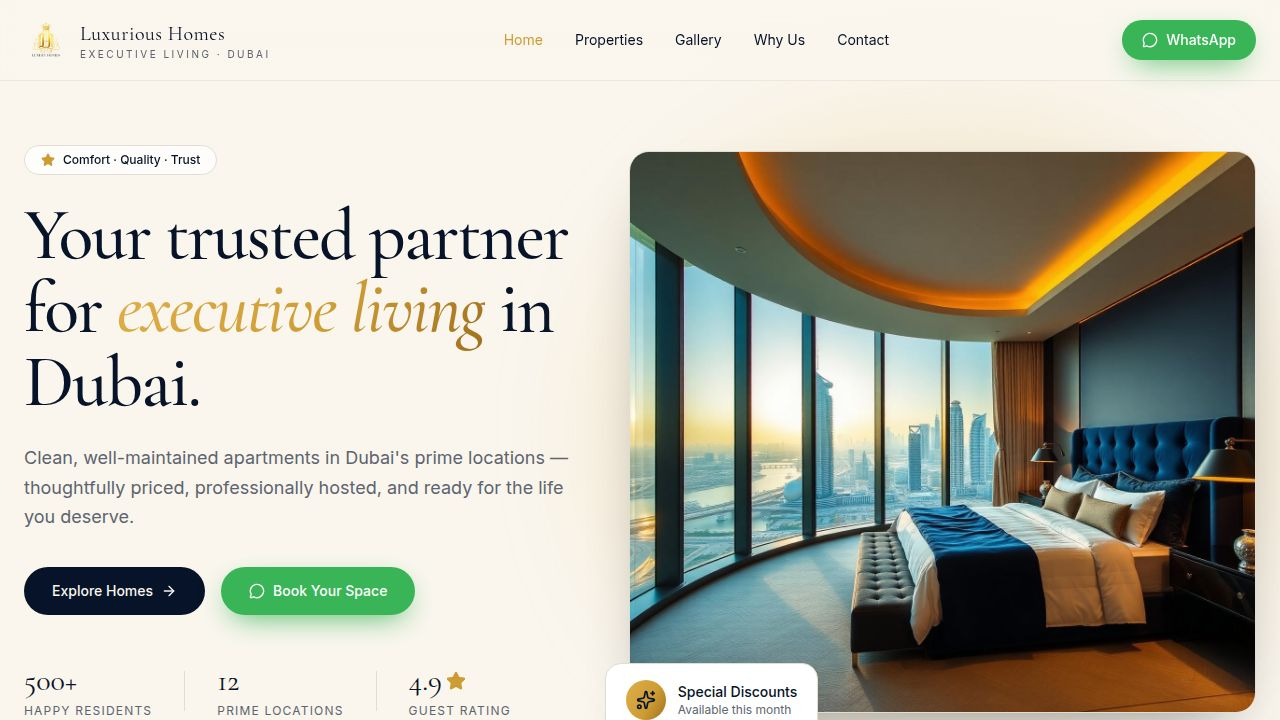
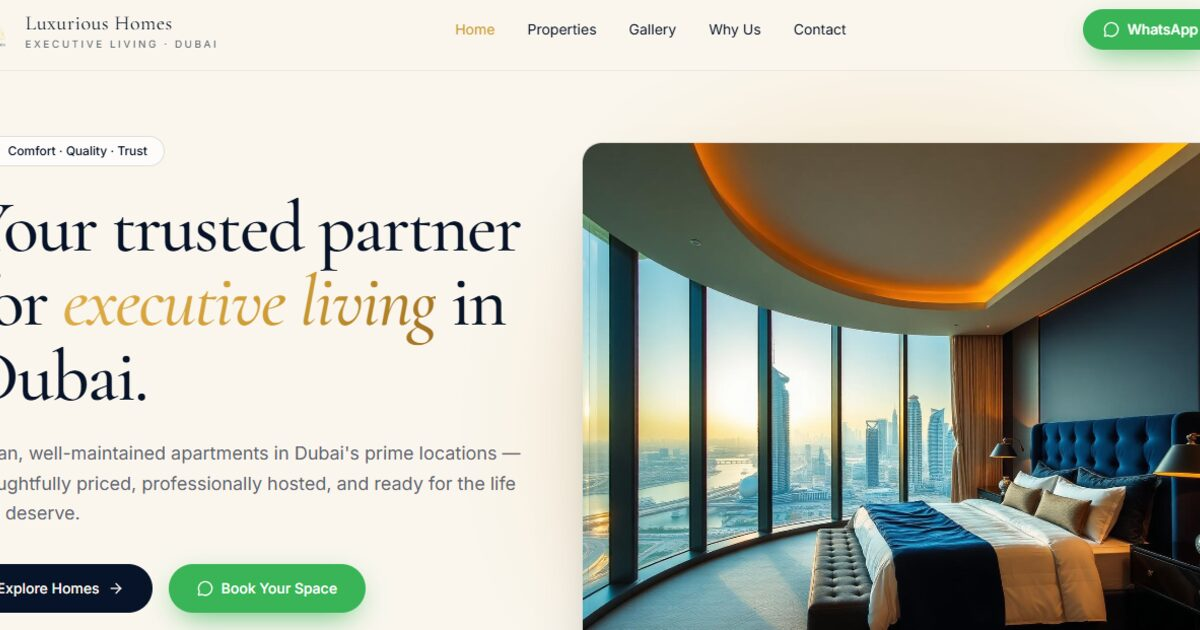
Update OG image and add agent memory documentation for Cloudflare deployment
Replit-Commit-Author: Agent

diff --git a/src/routes/__root.tsx b/src/routes/__root.tsx
@@ -93,11 +93,11 @@ export const Route = createRootRouteWithContext<{ queryClient: QueryClient }>()(
       { property: "og:title", content: "Luxurious Homes — Executive Living in Dubai" },
       { property: "og:description", content: "Clean, well-maintained executive apartments in Dubai's prime locations." },
       { property: "og:type", content: "website" },
-      { property: "og:image", content: `${import.meta.env.VITE_APP_URL ?? ""}/og-image.jpg` },
-      { property: "og:image:width", content: "1280" },
-      { property: "og:image:height", content: "720" },
+      { property: "og:image", content: `${import.meta.env.VITE_APP_URL ?? "https://luxurioushomes.broad-tooth-82ac.workers.dev"}/og-image.jpg` },
+      { property: "og:image:width", content: "1200" },
+      { property: "og:image:height", content: "630" },
       { name: "twitter:card", content: "summary_large_image" },
-      { name: "twitter:image", content: `${import.meta.env.VITE_APP_URL ?? ""}/og-image.jpg` },
+      { name: "twitter:image", content: `${import.meta.env.VITE_APP_URL ?? "https://luxurioushomes.broad-tooth-82ac.workers.dev"}/og-image.jpg` },
     ],
     links: [
       { rel: "stylesheet", href: appCss },

diff --git a/.agents/memory/cloudflare-deployment.md b/.agents/memory/cloudflare-deployment.md
@@ -1,0 +1,39 @@
+---
+name: Cloudflare Deployment
+description: How to build and deploy this TanStack Start SSR app to Cloudflare Workers, including the wrangler config workaround needed every deploy.
+---
+
+# Cloudflare Deployment
+
+## Live URL
+https://luxurioushomes.broad-tooth-82ac.workers.dev
+
+## Deploy process (must follow every time)
+1. `bun run build`
+2. Overwrite `.output/server/wrangler.json` with the clean config below
+3. Delete `.wrangler/deploy/config.json`
+4. `cd .output/server && CLOUDFLARE_API_TOKEN=$CLOUDFLARE_API_KEY bunx wrangler deploy`
+
+## Clean wrangler.json for .output/server/
+```json
+{
+  "compatibility_date": "2024-09-23",
+  "name": "luxurioushomes",
+  "compatibility_flags": ["nodejs_compat"],
+  "main": "index.mjs",
+  "assets": { "binding": "ASSETS", "directory": "../public" },
+  "no_bundle": true,
+  "rules": [{ "type": "ESModule", "globs": ["**/*.mjs", "**/*.js"] }]
+}
+```
+
+**Why:** Nitro's cloudflare-module preset regenerates wrangler.json with `pages_build_output_dir` (Pages-only) and `assets.binding: "ASSETS"` (reserved in Pages). Deploying as a Worker via `wrangler deploy` works — but the config must be patched after every build.
+
+## Auth
+- Secret: `CLOUDFLARE_API_KEY` → pass as `CLOUDFLARE_API_TOKEN`
+- Account: Info@migradia.com, ID: 4a8511d021c1afe4a6b7f14975b73e53
+- Token needs **Workers Scripts: Edit** permission
+
+## OG image
+Absolute URL fallback in __root.tsx: https://luxurioushomes.broad-tooth-82ac.workers.dev/og-image.jpg
+Override with VITE_APP_URL env var if domain changes.

diff --git a/.agents/memory/MEMORY.md b/.agents/memory/MEMORY.md
@@ -1,0 +1,1 @@
+- [Cloudflare Deployment](cloudflare-deployment.md) — deploy process, live URL, and wrangler config workaround required every build
